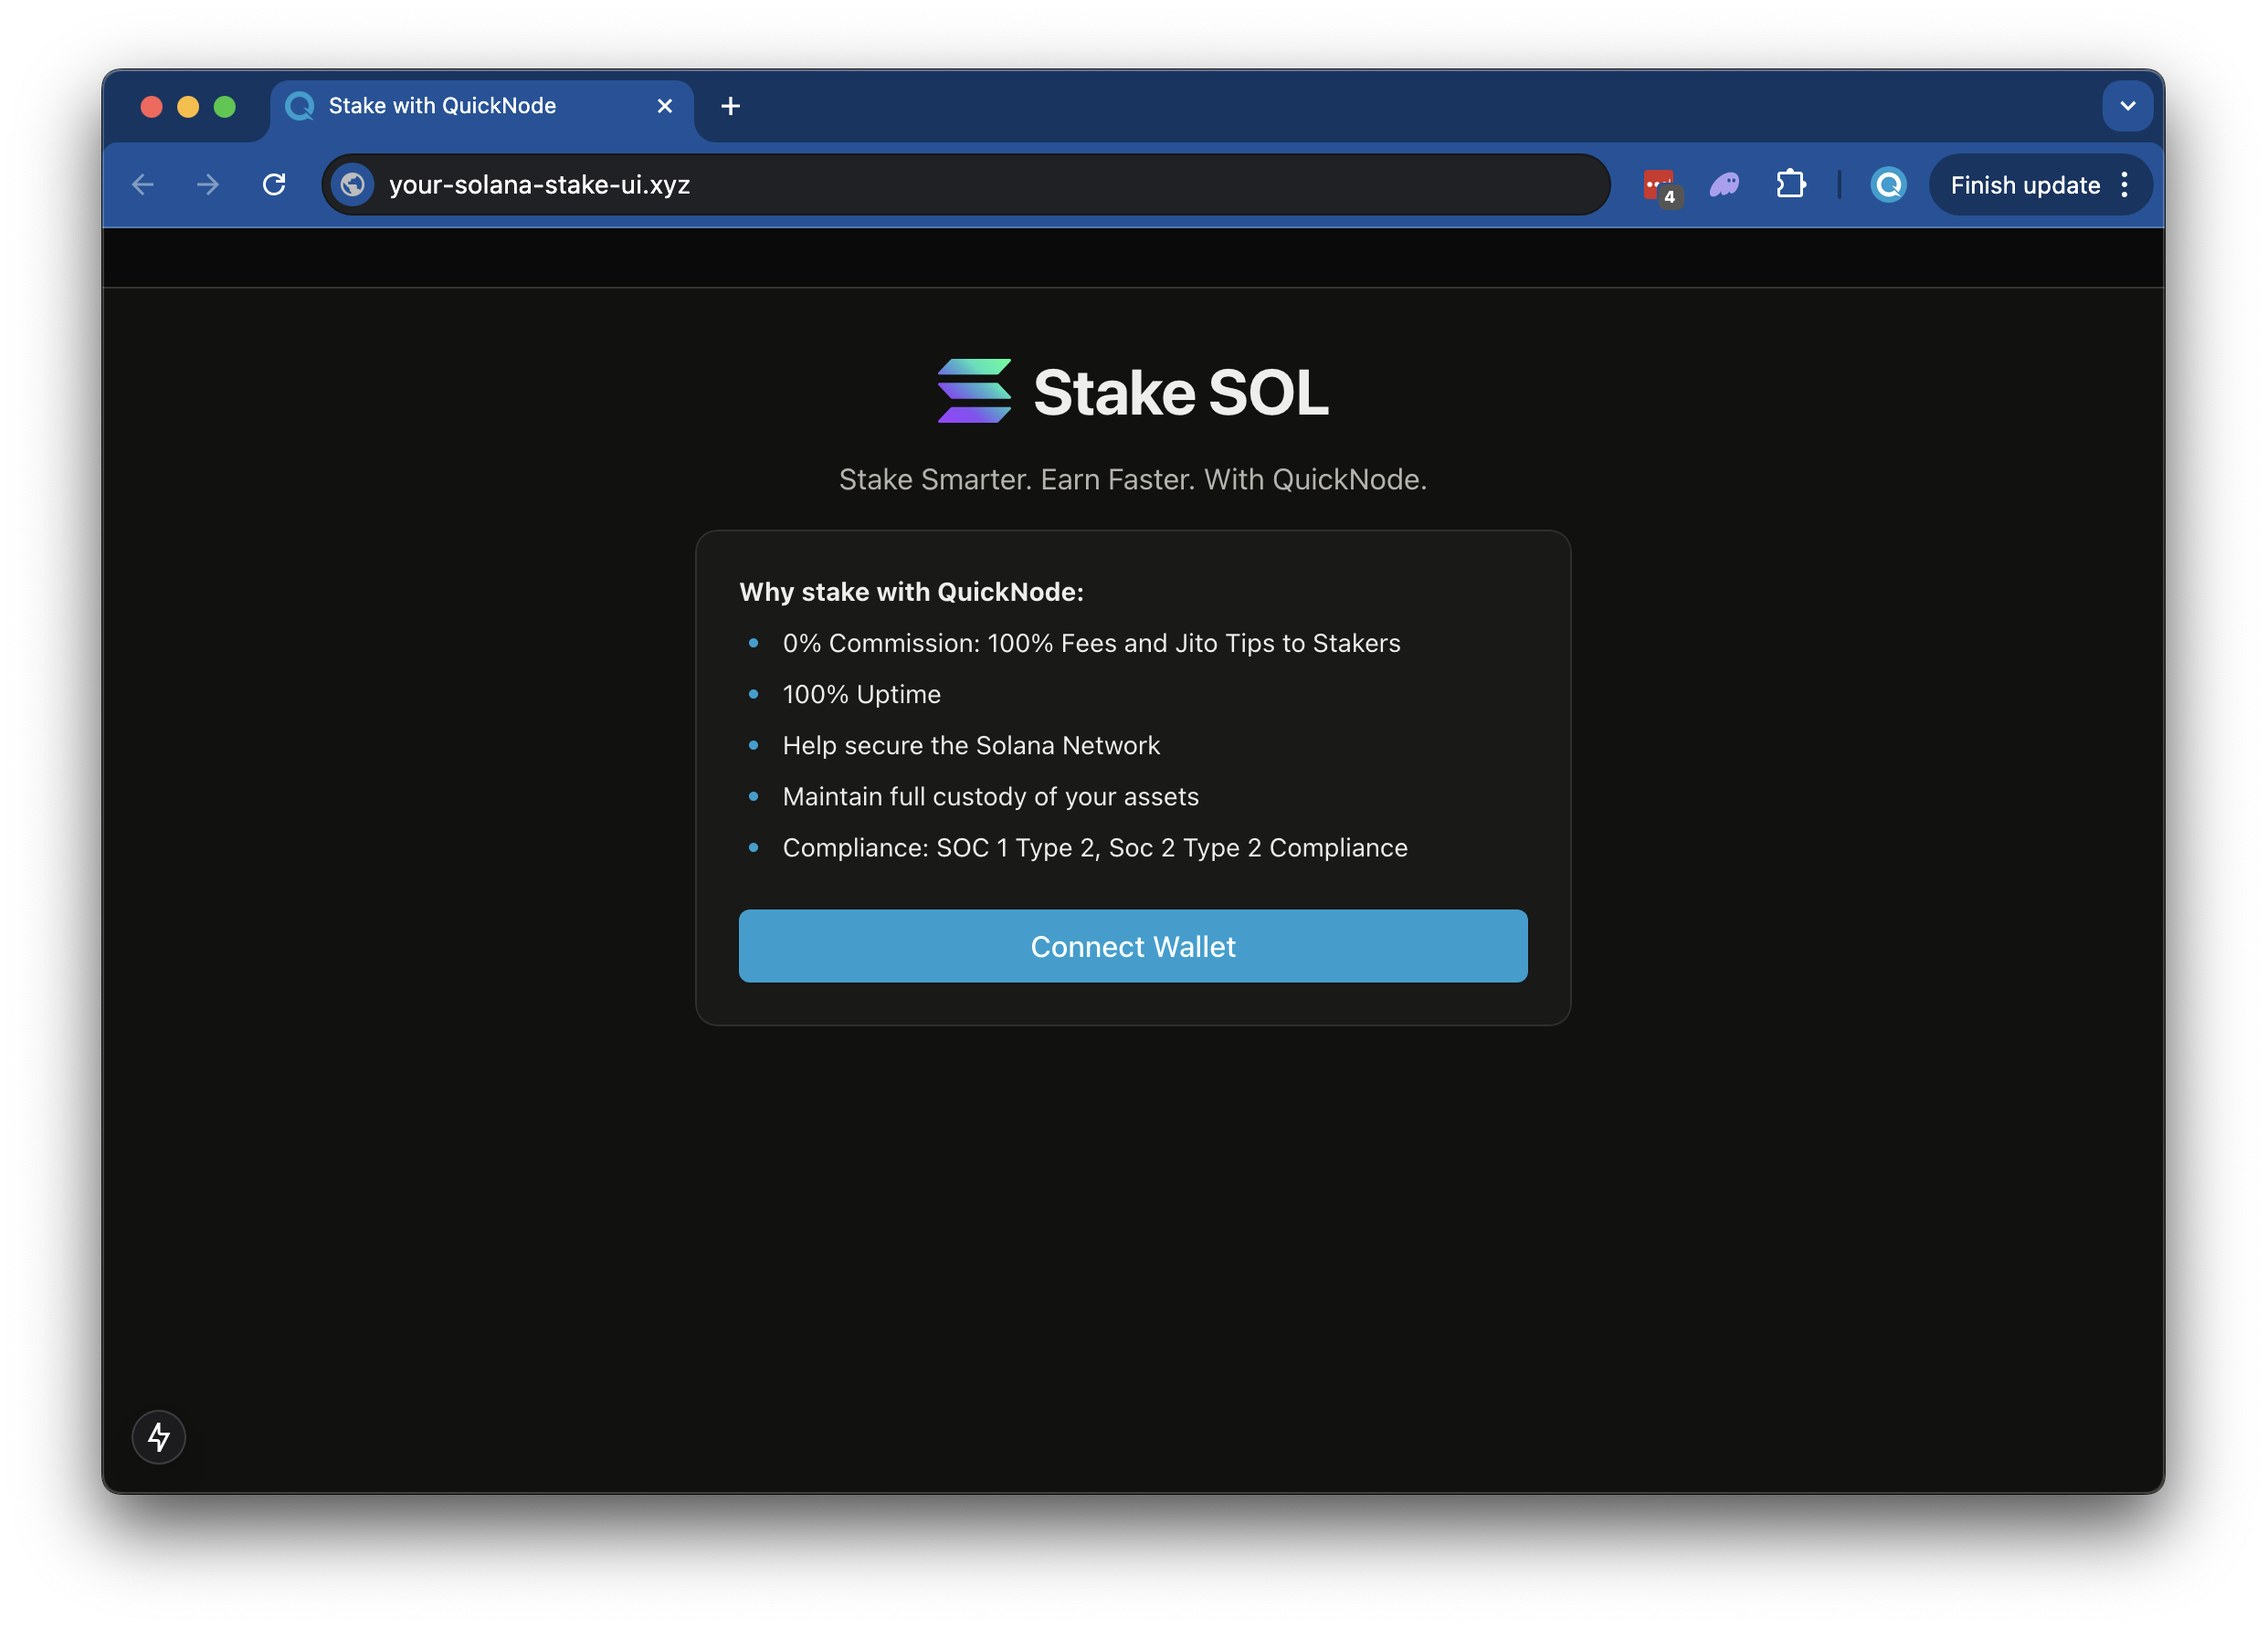
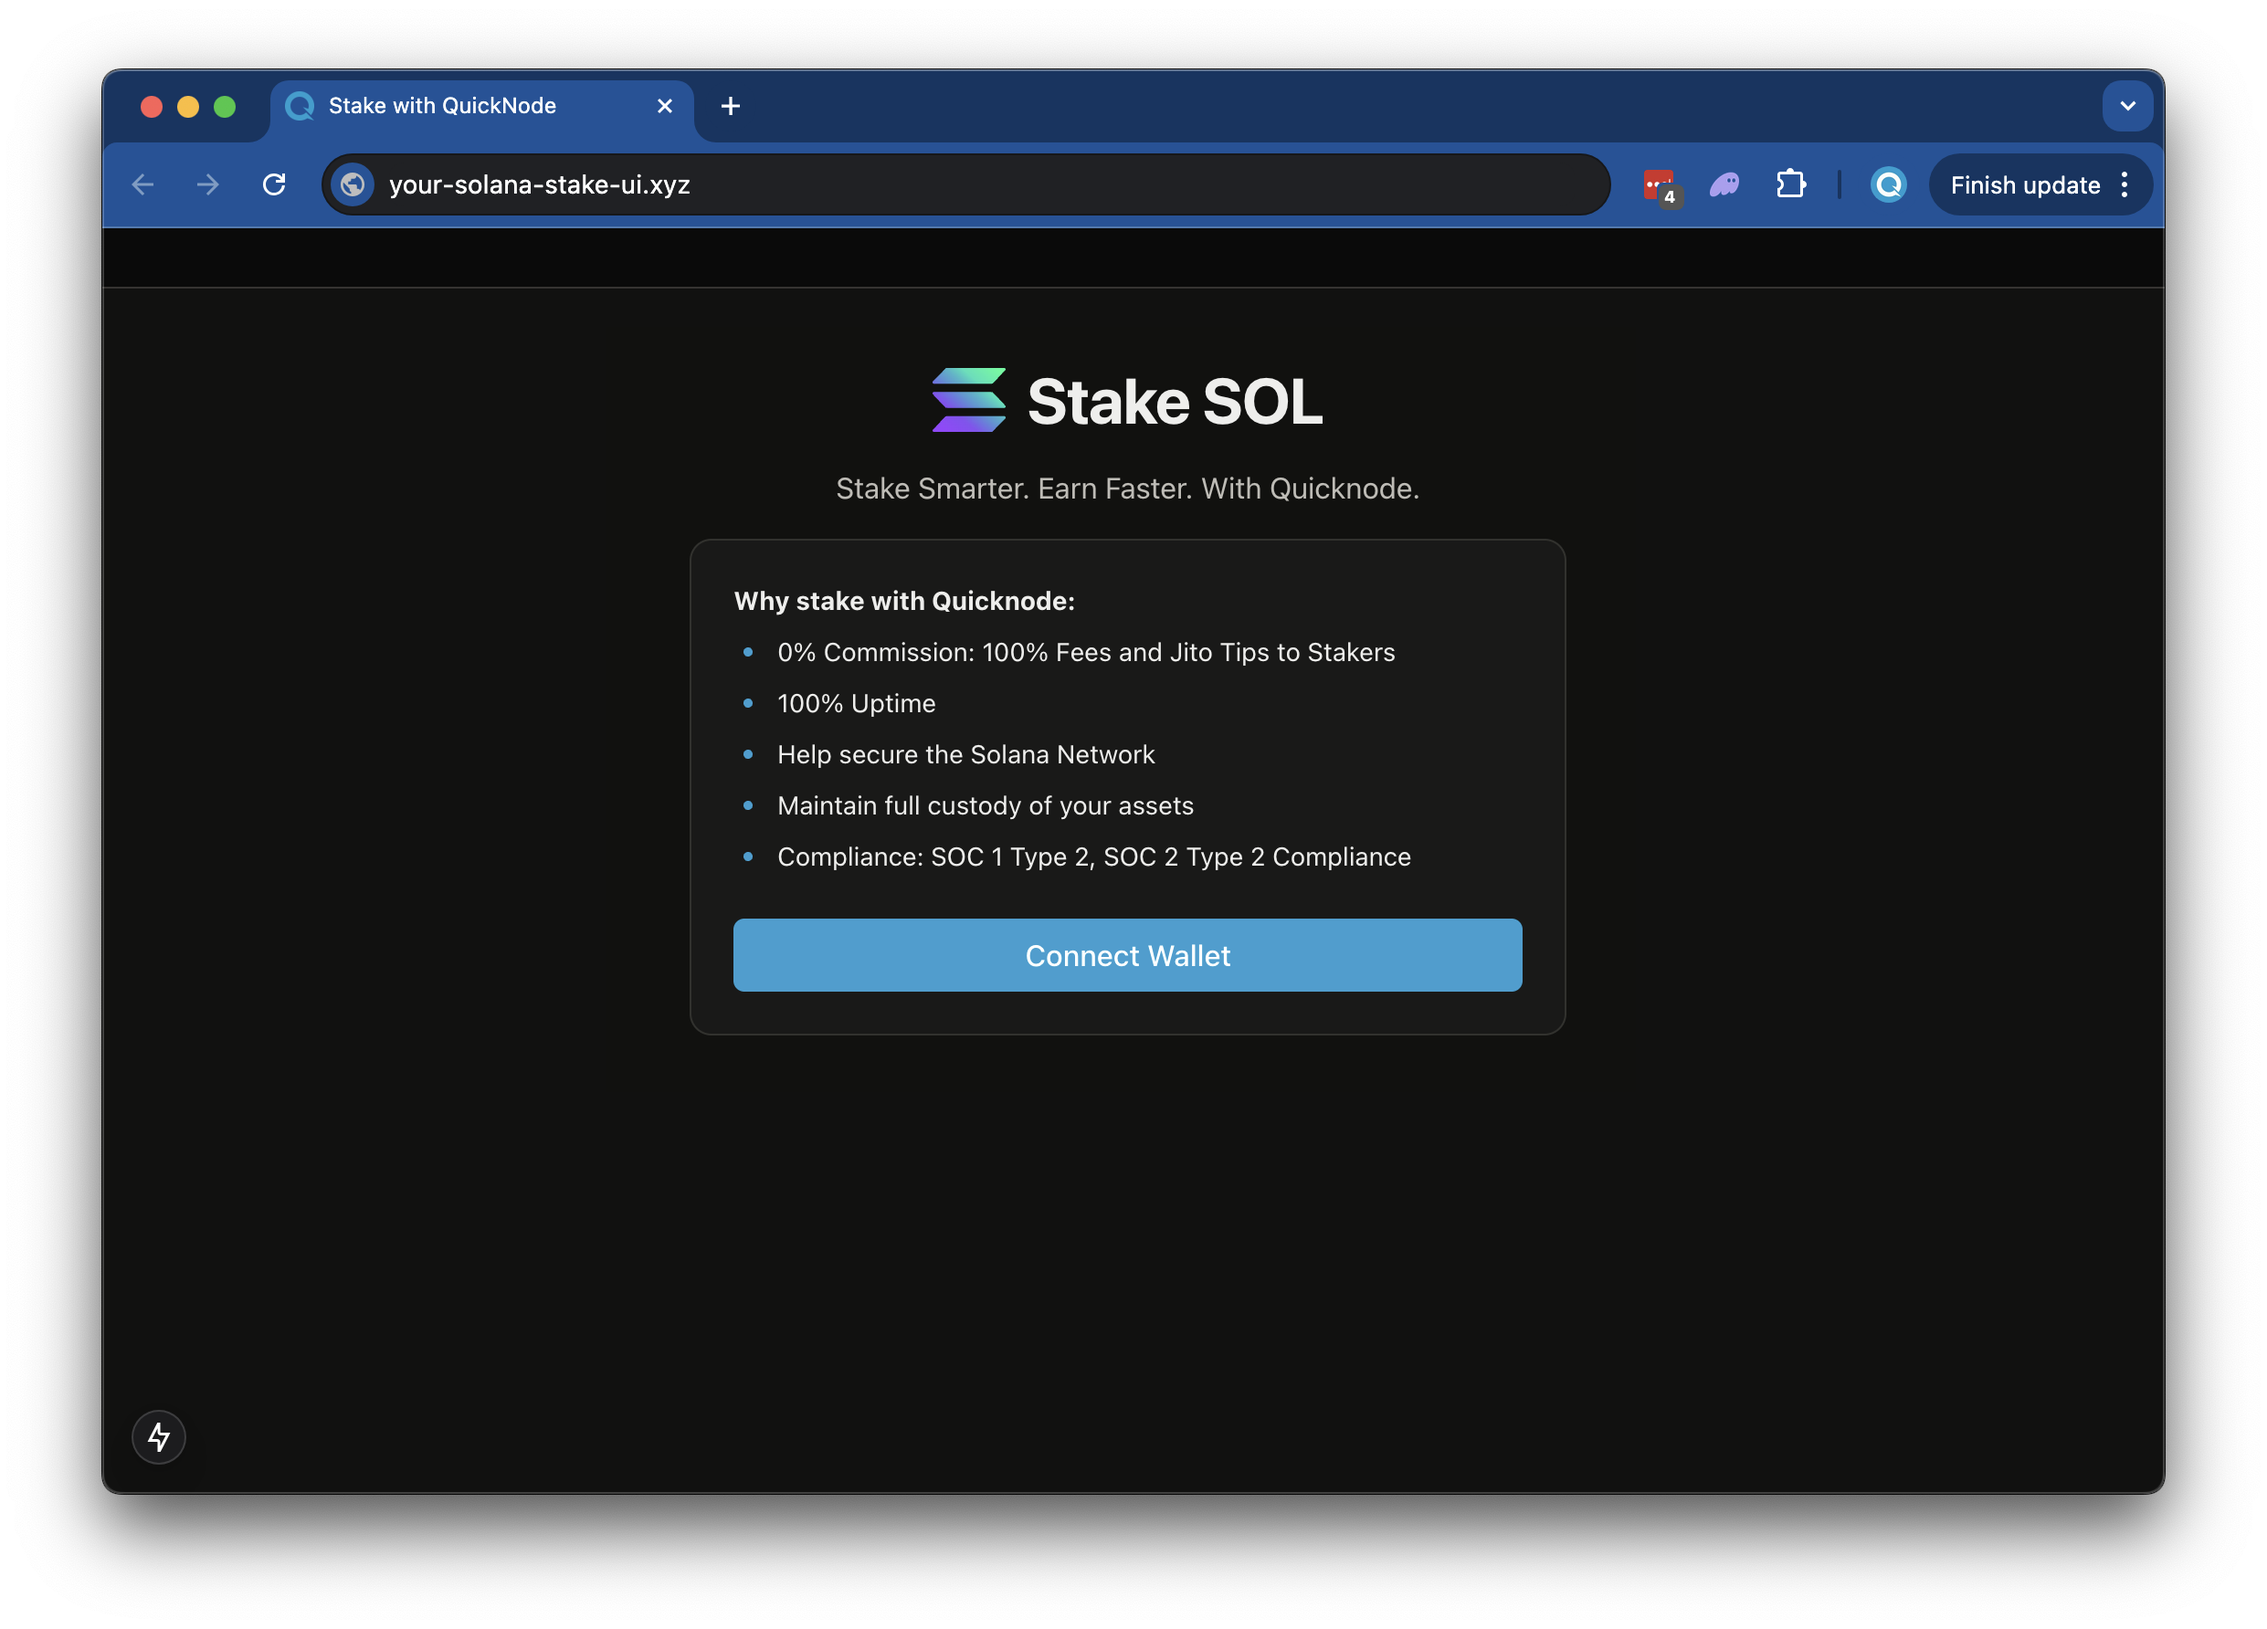
update branding and preview

Changed region(s): [[0.3102, 0.3391, 0.6825, 0.6166], [0.3723, 0.2158, 0.6205, 0.3083]]

diff --git a/sample-dapps/solana-staking-ui/components/stake/FeaturesList.tsx b/sample-dapps/solana-staking-ui/components/stake/FeaturesList.tsx
@@ -6,7 +6,7 @@ const FEATURES = [
   "100% Uptime",
   "Help secure the Solana Network",
   "Maintain full custody of your assets",
-  "Compliance: SOC 1 Type 2, Soc 2 Type 2 Compliance"
+  "Compliance: SOC 1 Type 2, SOC 2 Type 2 Compliance"
 ] as const;
 
 export function FeaturesList() {
